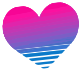
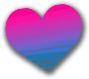
Player has health now!

Changed region(s): [[0.0247, 0.0282, 0.9877, 0.9859]]

diff --git a/js/level1.js b/js/level1.js
@@ -14,7 +14,13 @@ var text;
 var graphics;
 var hsv;
 var timerEvents = [];
-var health;
+var penguinHealth;
+var heart1;
+var heart2;
+var heart3;
+var heart1_lost;
+var heart2_lost;
+var heart3_lost;
 
 /*
  * Create runs once only when Phaser first loads
@@ -29,10 +35,10 @@ function create() {
 
 	graphics = this.add.graphics({ x: 240, y: 36 });
 
-	health = 3;
 }
 
 Level1State.prototype.create = function () {
+	penguinHealth = 3;
 	// init the keys
 	escKey = game.input.keyboard.addKey(Phaser.Keyboard.ESC);
 	cursors = game.input.keyboard.createCursorKeys();
@@ -108,6 +114,15 @@ Level1State.prototype.create = function () {
 
 	// init the timer!
 	// Timer adapted from <https://phaser.io/examples/v3/view/time/multiple-timers#> //
+
+	// GUI/HUD stuff here so it renders above the other bits and pieces!
+	// setup the health HUD stuff
+	heart1 = game.add.sprite(16, 16+8, "heart");
+	heart2 = game.add.sprite(16+84, 16+4, "heart");
+	heart3 = game.add.sprite(16+84+84, 16, "heart");
+	heart1_lost = game.add.sprite(-250, -250, "heartLost");
+	heart2_lost = game.add.sprite(-250, -250, "heartLost");
+	heart3_lost = game.add.sprite(-250, -250, "heartLost");
 }
 
 
@@ -291,25 +306,6 @@ Level1State.prototype.update = function () {
 	if (score > 9) {
 		startMenu2();
 	}
-	// health condition
-	switch(health)
-	{
-	case 0:
-		heart = game.add.sprite(16, 16, "heart");
-	break;
-	case 1:
-		heart = game.add.sprite(16+84, 16, "heart");
-	break;
-	case 2:
-		heart = game.add.sprite(16+84+84, 16, "heart");
-	break;
-	case 1:
-		heart = game.add.sprite(16+84+84+84, 16, "heart");
-	break;
-	default:
-		console.log ("ERROR: Health value outside of range");
-	}
-
 
 	game.physics.arcade.collide(player, Invisibleground);
 	game.physics.arcade.overlap(player, Coins, null, this.onCollision, this);
@@ -332,34 +328,31 @@ Level1State.prototype.update = function () {
 		player.loadTexture('player')
 	};
 	if (escKey.isDown) { startMain(); } //exit game
+	// test key
 	//		if else {player.loadTexture('player')};
 
 
-
+	// destroy the "coins" once they are outside of view
 	if (platform2.position.x <= -(game.rnd.integerInRange(1000, 3000))) {
 		platform2.destroy();
 		coin.destroy();
 		Level1releasePlatform2();
 	}
-
 	if (platform3.position.x <= -(game.rnd.integerInRange(1000, 3000))) {
 		platform3.destroy();
 		coin2.destroy();
 		Level1releasePlatform3();
 	}
-
 	if (platform23.position.x <= -2050) {
 		platform23.destroy();
 
 		Level1releasePlatform23();
 	}
-
 	if (platform33.position.x <= -5000) {
 		platform33.destroy();
 
 		Level1releasePlatform33();
 	}
-
 	if (coin4.position.x <= -1000) {
 		coin4.destroy();
 		Level1releaseGroundCoin();
@@ -372,12 +365,74 @@ Level1State.prototype.update = function () {
 		coin5.destroy();
 		Level1releaseGroundCoin3();
 	}
-
+	// Player DEAD!
 	if (player.position.y >= 1025) {
 		player.loadTexture('playerDead');
 		player.body.velocity = false;
 		sprite2.body.velocity = false;
 		game.time.events.add(500, gameOver2, this);
+	}
+	// health condition
+	switch(penguinHealth)
+	{
+	case 1:
+		heart1.position.x = 16;
+		heart1.position.y = 16+8;
+		heart2.position.x = -250;
+		heart2.position.y = -250;
+		heart3.position.x = -250;
+		heart3.position.y = -250;
+		heart1_lost.position.x = -250;
+		heart1_lost.position.y = -250;
+		heart2_lost.position.x = 16+84;
+		heart2_lost.position.y = 16+4;
+		heart3_lost.position.x = 16+84+84;
+		heart3_lost.position.y = 16;
+	break;
+	case 2:
+		heart1.position.x = 16;
+		heart1.position.y = 16+8;
+		heart2.position.x = 16+84;
+		heart2.position.y = 16+4;
+		heart3.position.x = -250;
+		heart3.position.y = -250;
+		heart1_lost.position.x = -250;
+		heart1_lost.position.y = -250;
+		heart2_lost.position.x = -250;
+		heart2_lost.position.y = -250;
+		heart3_lost.position.x = 16+84+84;
+		heart3_lost.position.y = 16;
+	break;
+	case 3:
+		heart1.position.x = 16;
+		heart1.position.y = 16+8;
+		heart2.position.x = 16+84;
+		heart2.position.y = 16+4;
+		heart3.position.x = 16+84+84;
+		heart3.position.y = 16;
+		heart1_lost.position.x = -250;
+		heart1_lost.position.y = -250;
+		heart2_lost.position.x = -250;
+		heart2_lost.position.y = -250;
+		heart3_lost.position.x = -250;
+		heart3_lost.position.y = -250;
+	break;
+	case 0:
+		heart1_lost.position.x = 16;
+		heart1_lost.position.y = 16+8;
+		heart2_lost.position.x = 16+84;
+		heart2_lost.position.y = 16+4;
+		heart3_lost.position.x = 16+84+84;
+		heart3_lost.position.y = 16;
+		heart1.position.x = -250;
+		heart1.position.y = -250;
+		heart2.position.x = -250;
+		heart2.position.y = -250;
+		heart3.position.x = -250;
+		heart3.position.y = -250;
+	break;
+	default:
+		console.log ("ERROR: Health value outside of range");
 	}
 
 }
@@ -389,6 +444,7 @@ Level1State.prototype.playerHit = function (sprite1, sprite2) {
 	player.body.velocity = false;
 	sprite2.body.velocity = false
 	onCollision = false
+	penguinHealth = penguinHealth - 1;
 	//go to gameover after a few miliseconds
 	//stop moving to the right
 	music1.stop();
@@ -398,31 +454,8 @@ Level1State.prototype.playerHit = function (sprite1, sprite2) {
 Level1State.prototype.onCollision = function (sprite1, sprite2) {
 	polarBearEat.play();
 	sprite2.destroy();
-	scoreText.text = 'score : ' + score;
-	// Lay down the dark purple
-	scoreText = game.add.text(16, 14, 'score : ', { fontSize: '70px', fill: '#9D1BAC' });
-	scoreText.fixedToCamera = true;
-	scoreText = game.add.text(18, 16, 'score : ', { fontSize: '70px', fill: '#9D1BAC' });
-	scoreText.fixedToCamera = true;
-	scoreText = game.add.text(16, 18, 'score : ', { fontSize: '70px', fill: '#9D1BAC' });
-	scoreText.fixedToCamera = true;
-	scoreText = game.add.text(14, 16, 'score : ', { fontSize: '70px', fill: '#9D1BAC' });
-	scoreText.fixedToCamera = true;
-	// Now the diagonals
-	scoreText = game.add.text(14, 14, 'score : ', { fontSize: '70px', fill: '#9D1BAC' });
-	scoreText.fixedToCamera = true;
-	scoreText = game.add.text(18, 14, 'score : ', { fontSize: '70px', fill: '#9D1BAC' });
-	scoreText.fixedToCamera = true;
-	scoreText = game.add.text(18, 18, 'score : ', { fontSize: '70px', fill: '#9D1BAC' });
-	scoreText.fixedToCamera = true;
-	scoreText = game.add.text(14, 18, 'score : ', { fontSize: '70px', fill: '#9D1BAC' });
-	scoreText.fixedToCamera = true;
-
-	// Lay down FFFFFF
-	scoreText = game.add.text(16, 16, 'score : ', { fontSize: '70px', fill: '#FFFFFF' });
-	scoreText.fixedToCamera = true;
-
 	score = score + 1;
+	penguinHealth = penguinHealth + 1;
 	
 }
 

diff --git a/js/preload.js b/js/preload.js
@@ -82,6 +82,7 @@ PreloadState.prototype.preload = function() {
 
 	// HUD STUFF
 	game.load.image('heart', "images/healthHeart.png");
+	game.load.image('heartLost', "images/healthHeartLost.png");
 
     game.load.atlasJSONHash('hero', 'images/polarRun.png', 'images/polarRun.json');
 	
